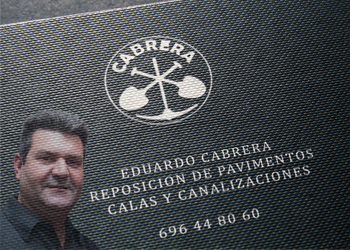
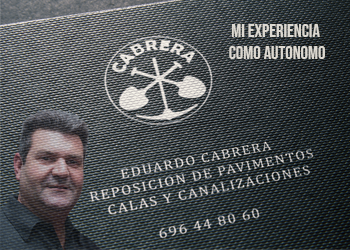
nuevas imagenes

Changed region(s): [[0.6571, 0.084, 0.9429, 0.252]]

diff --git a/index.html b/index.html
@@ -594,6 +594,32 @@
                             </div>
                         </div>
                     </div>
+
+                    <div id="slidingDiv13" class="toggleDiv row-fluid single-project">
+                        <div class="span6">
+                            <img src="images/github.png" alt="project 13">
+                        </div>
+                        <div class="span6">
+                            <div class="project-description">
+                                <div class="project-title clearfix">
+                                    <h3>Git & github</h3>
+                                    <span class="show_hide close">
+                                        <i class="icon-cancel"></i>
+                                    </span>
+                                </div>
+                                <div class="project-info">
+                                    <div>
+                                        <span>Certif.</span>UPM</div>
+                                    <div>
+                                        <span>Date</span>Febrero 2019</div>
+                                    
+                                    <div>
+                                        <span>Link</span>https://formacion.miriadax.net/curso/gitmooc/</div>
+                                </div>
+                                <p>Curso impartido por profesores de la Universidad Politécnica de Madrid</p>
+                            </div>
+                        </div>
+                    </div>
                     <!-- End details for portfolio project 9 -->
                     <ul id="portfolio-grid" class="thumbnails row " >
                         <li class="span4 mix none">
@@ -730,7 +756,7 @@
                                 <div class="mask"></div>
                             </div>
                         </li>
-                        <li class="span4 mix Prog">
+                        <li class="span4 mix identidad">
                             <div class="thumbnail">
                                 <img src="images/colud-computing-peq.png" alt="project 12">
                                 <a href="#single-project" class="show_hide more" rel="#slidingDiv12">
@@ -738,6 +764,18 @@
                                 </a>
                                 <h3>Cloud Computing</h3>
                                 <p>Google Activate</p>
+                                <div class="mask"></div>
+                            </div>
+                        </li>
+
+                        <li class="span4 mix Prog web">
+                            <div class="thumbnail">
+                                <img src="images/github.png" alt="project 13">
+                                <a href="#single-project" class="show_hide more" rel="#slidingDiv13">
+                                    <i class="icon-plus"></i>
+                                </a>
+                                <h3>Git & Github</h3>
+                                <p>Control de Versiones</p>
                                 <div class="mask"></div>
                             </div>
                         </li>
@@ -947,7 +985,7 @@
           </div>
         </div>
         <div class="img-box">
-          <img src="/images/galeria4.png" alt="" />
+          <img src="/images/galeria4.png" id="imagen4" alt="" />
           <div class="transparent-box">
             <div class="caption">
               <p>La experiencia como Autónomo</p>

diff --git a/js/app.js b/js/app.js
@@ -84,6 +84,20 @@ var panel="abierto"
     
     })
 
+    var imagen4 = document.getElementById("imagen4");
+
+    imagen4.addEventListener('click',()=>{
+        
+        
+        $.sweetModal({
+            title: '<img src="images/logo.png" style="float:left; padding-right:10%" width="100" height="40" alt="Logo Eduardo Cabrera Blázquez" /><h4 style="display: inline-block;vertical-align: top;">Productividad personal en la era digital</h4>',
+            content: '<center><img src="/images/transportes.png">',
+            theme: $.sweetModal.THEME_DARK,
+                      
+        })
+    
+    })
+
 
   
     jQuery('#play').click(function(){ 
